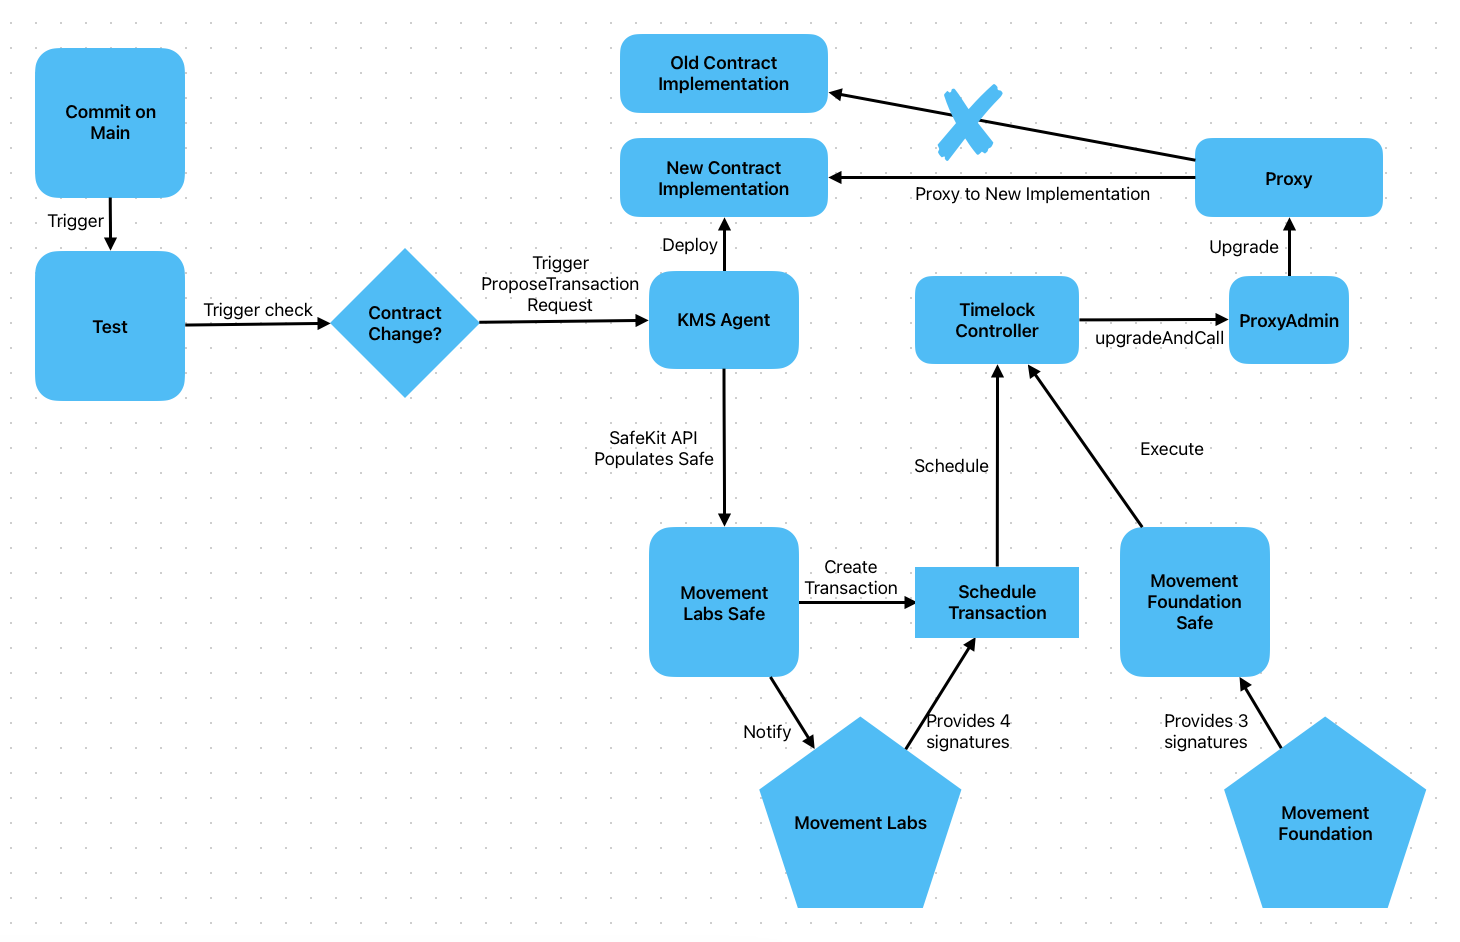
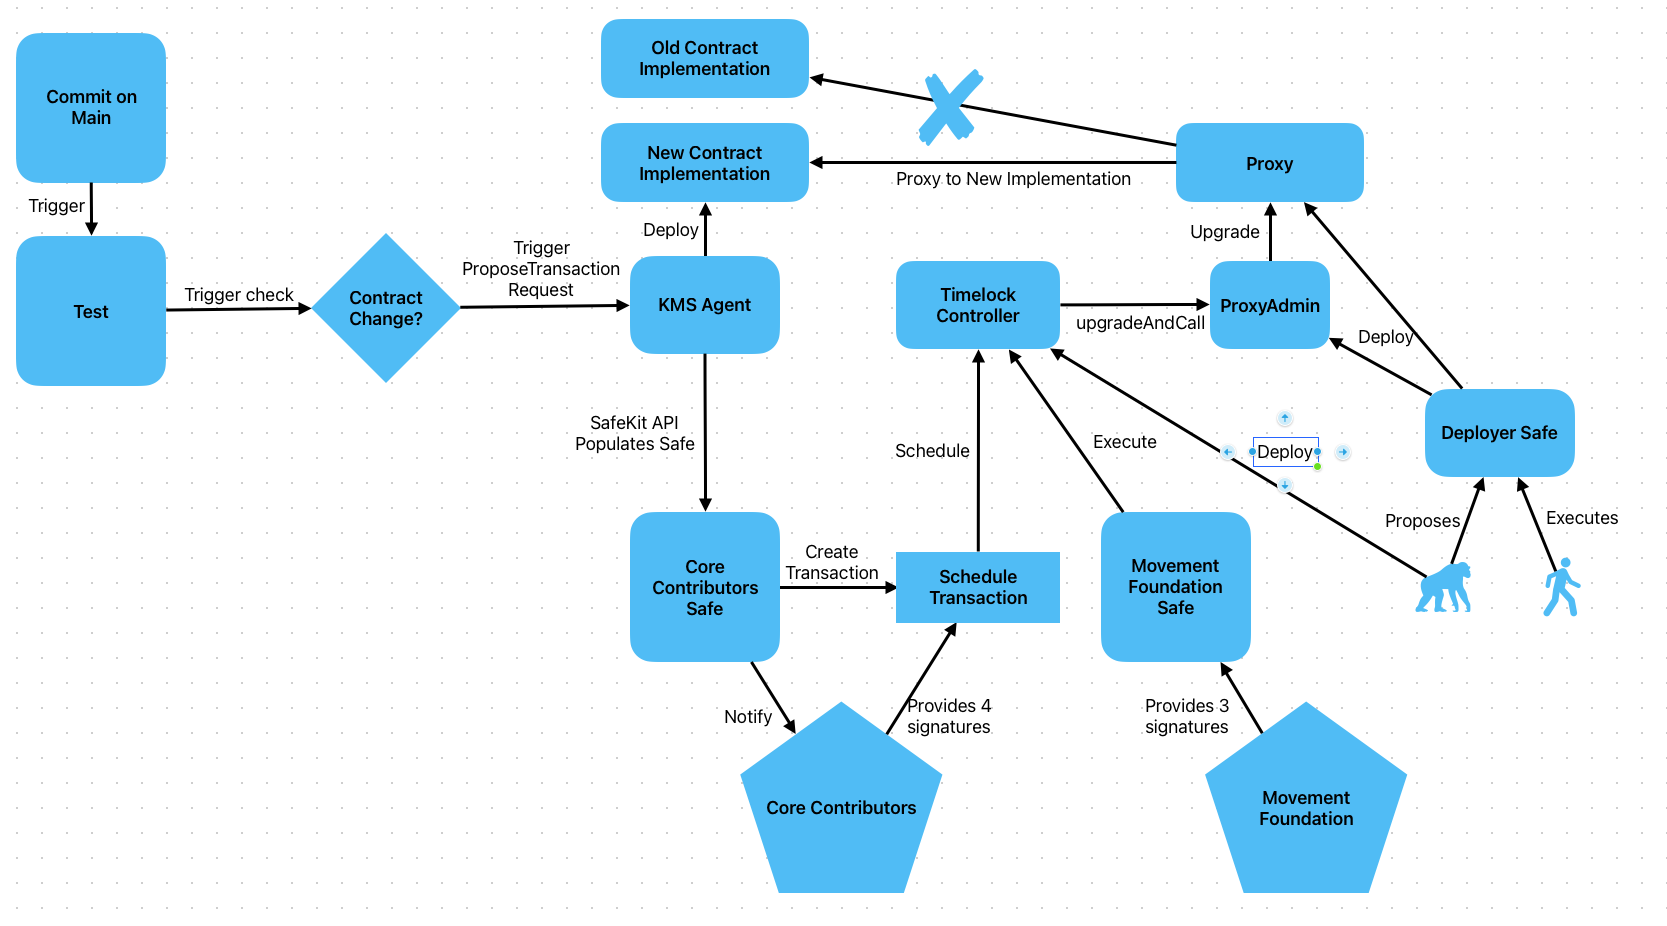
change to core contributors

Changed region(s): [[0.0, 0.0, 0.9863, 0.9676]]

diff --git a/MIP/mip-18/README.md b/MIP/mip-18/README.md
@@ -5,13 +5,13 @@
 
 ## Abstract
 
-MIP-18 advocates for the creation of two multisigs: one managed by Movement Labs engineers to propose contract upgrades and another managed by the Movement Foundation to execute them. This proposal enables testing of multisig services while ensuring secure and transparent upgrade processes for the Movement Token. The multisigs will be deployed on Ethereum, Sepolia, and Holesky (if available) networks.
+MIP-18 advocates for the creation of two multisigs: one managed by Core Contributors engineers to propose contract upgrades and another managed by the Movement Foundation to execute them. This proposal enables testing of multisig services while ensuring secure and transparent upgrade processes for the Movement Token. The multisigs will be deployed on Ethereum, Sepolia, and Holesky (if available) networks.
 
 ## Motivation
 
 There is an immediate need to deploy the Movement Token (MOVEToken) using a robust, secure, and auditable upgrade mechanism. By creating two multisigs—one for proposal and one for execution—we ensure a transparent and decentralized governance process over upgrades to critical contracts.
 
-The first multisig allows Movement Labs engineers to propose upgrades via Safe’s multisig service. A remote key will automate the population of upgrade proposals. The second multisig, held by the Movement Foundation, will be responsible for executing the scheduled upgrades after a time delay, ensuring community trust and review.
+The first multisig allows Core Contributors engineers to propose upgrades via Safe’s multisig service. A remote key will automate the population of upgrade proposals. The second multisig, held by the Movement Foundation, will be responsible for executing the scheduled upgrades after a time delay, ensuring community trust and review.
 
 Also, while developing an independent multisig, handling signature showed to be an issue that might be indicative of better letting signature to be handled by safe.global.
 
@@ -19,7 +19,7 @@ Also, while developing an independent multisig, handling signature showed to be 
 
 ### Multisig Setup
 
-1. **Movement Labs Multisig** (4/5 signatures required):  
+1. **Core Contributors Multisig** (4/5 signatures required):  
    - Role: Proposing upgrades.
    - Addresses: Deployed on Ethereum, Sepolia, and Holesky (if available).
    - Signers: Andy Bell (0x49F86Aee2C2187870ece0e64570D0048EaF4C751), Richard Melkonian (0xaFf3deeb13bD2B480751189808C16e9809EeBcce), Liam Monninger (0x12Cbb2C9F072E955b6B95ad46213aAa984A4434D), Primata (0xB2105464215716e1445367BEA5668F581eF7d063) (Engineers involved with Token), and a remote key for automated transaction proposals via SafeKit API's [proposeTransaction](https://docs.safe.global/sdk/api-kit#propose-a-transaction-to-the-service).
@@ -40,11 +40,11 @@ Both multisigs are part of a timelock mechanism to enforce a 2-day waiting perio
    - The Contract Pipeline deploys a new contract implementation and generates transaction data for the upgrade.
 
 2. **Proposal**:  
-   - The remote key automates the submission of a transaction proposal using SafeKit API’s `proposeTransaction`, populating the transaction for review by Movement Labs engineers.
+   - The remote key automates the submission of a transaction proposal using SafeKit API’s `proposeTransaction`, populating the transaction for review by Core Contributors engineers.
    - The proposal includes the transaction for `timelock.schedule(proxyAdmin.upgradeAndCall(newContractImplementation))`.
 
 3. **Approval**:  
-   - The Movement Labs engineers review and gather 4/5 signatures to approve the proposal.
+   - The Core Contributors engineers review and gather 4/5 signatures to approve the proposal.
    - Once approved, the `timelock.schedule` transaction is enacted, holding the upgrade in a 2-day timelock.
 
 4. **Execution**:  
@@ -63,7 +63,7 @@ Both multisigs are part of a timelock mechanism to enforce a 2-day waiting perio
 
 ## Reference Implementation
 
-The multisigs will be deployed using the Safe global multisig service, with contracts interacting through the SafeKit API. The remote key will automate transaction proposals for review by Movement Labs engineers.
+The multisigs will be deployed using the Safe global multisig service, with contracts interacting through the SafeKit API. The remote key will automate transaction proposals for review by Core Contributors engineers.
 
 ## Verification
 
